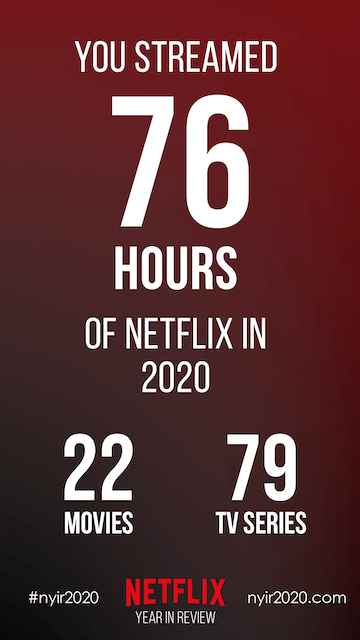
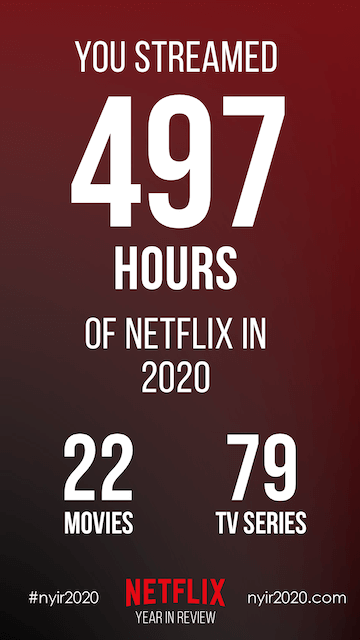
social media meta tags

Changed region(s): [[0.1833, 0.125, 0.7944, 0.375]]

diff --git a/client/public/index.html b/client/public/index.html
@@ -27,6 +27,13 @@
     <link rel="preconnect" href="https://fonts.gstatic.com">
     <link href="https://fonts.googleapis.com/css2?family=Rubik:ital,wght@0,400;0,700;1,700&display=swap" rel="stylesheet">
     <title>Netflix Year In Review</title>
+    <meta property="og:title" content="Netflix Year In Revoew" />
+    <meta property="og:description" content="Inspired by #SpotifyWrapped that subscribers get at the end of every year, we created something similar for Netflix. We are using the .csv viewing activity log from Netflix’s site with the help of “The Movie Database API”. We have created our first graphics in this project that shows your Top 5 Shows of 2020 and Overview. Check it out!" />
+    <meta property="og:type" content="website" />
+    <meta property="og:url" content="https://nyir2020.com/" />
+    <meta property="og:image" content="https://nyir2020.com/screenshot.png" />
+    <meta name="description" content="Inspired by #SpotifyWrapped that subscribers get at the end of every year, we created something similar for Netflix. We are using the .csv viewing activity log from Netflix’s site with the help of “The Movie Database API”. We have created our first graphics in this project that shows your Top 5 Shows of 2020 and Overview. Check it out!">
+    <meta name="keywords" content="Netflix, year, review, 2020, csv">
   </head>
   <body>
     <noscript>You need to enable JavaScript to run this app.</noscript>

diff --git a/client/src/Components/Landing/Landing.tsx b/client/src/Components/Landing/Landing.tsx
@@ -58,7 +58,7 @@ export default class Landing extends React.Component<Props,State> {
           <div id="landingContent">
             <section style={{paddingLeft:"1em", paddingRight:"1em"}}>
               <p><b>By Matthew Lau & Harry Li</b></p>
-              <p id="description">Inspired by  #SpotifyWrapped that subscribers get at the end of every  year, we wanted to create something similar for Netflix. We are using the .csv viewing activity log from Netflix’s site with the help of “The Movie Database API”  As of January 1, 2020, we have created our first graphic in this project that shows your <b>Top 5 Shows of 2020</b>. Check it out!</p>
+              <p id="description">Inspired by #SpotifyWrapped that subscribers get at the end of every year, we created something similar for Netflix. We are using the .csv viewing activity log from Netflix’s site with the help of “The Movie Database API”. We have created our first graphics in this project that shows your <b>Top 5 Shows of 2020</b> and <b>Overview</b>. Check it out!</p>
             </section>
 
             <section>

diff --git a/client/src/Components/PosterOverview/PosterOverview.tsx b/client/src/Components/PosterOverview/PosterOverview.tsx
@@ -30,13 +30,20 @@ export default class PosterTopX extends React.Component<Props,State> {
       if(yearData) {
         data.movieCount = yearData.movie.size + 10
         yearData.movie.forEach((nameData) => {
-          console.log("nameData",nameData)
-          data.duration += nameData.tmdbData.runtime
+          let count = 0
+          nameData.titles.forEach((titleCount) => {
+            count += titleCount
+          })
+          data.duration += count* nameData.tmdbData.runtime
         })
 
         data.serieCount = yearData.serie.size
         yearData.serie.forEach((nameData) => {
-          data.duration += nameData.tmdbData.processedDuration
+          let count = 0
+          nameData.titles.forEach((titleCount) => {
+            count += titleCount
+          })
+          data.duration += count* nameData.tmdbData.processedDuration
         })
       }
 

diff --git a/client/src/Components/NavBar/NavBar.tsx b/client/src/Components/NavBar/NavBar.tsx
@@ -34,7 +34,7 @@ export default function NavBar(props: Props) {
             <div className="navIcon">
               <FontAwesomeIcon icon={faInfoCircle}/>
             </div>
-            <div>Design &</div>
+            <div>Our Design &</div>
             <div>Development</div>
           </div>
         </div>

diff --git a/client/src/App.tsx b/client/src/App.tsx
@@ -62,7 +62,7 @@ class App extends React.Component<{},State> {
   }
 
 
-  fetchCsv() {
+  fetchCsv() { //use for development
     fetch('/example.csv').then((response) => {
       if(response && response.body) {
         const reader = response.body.getReader()
